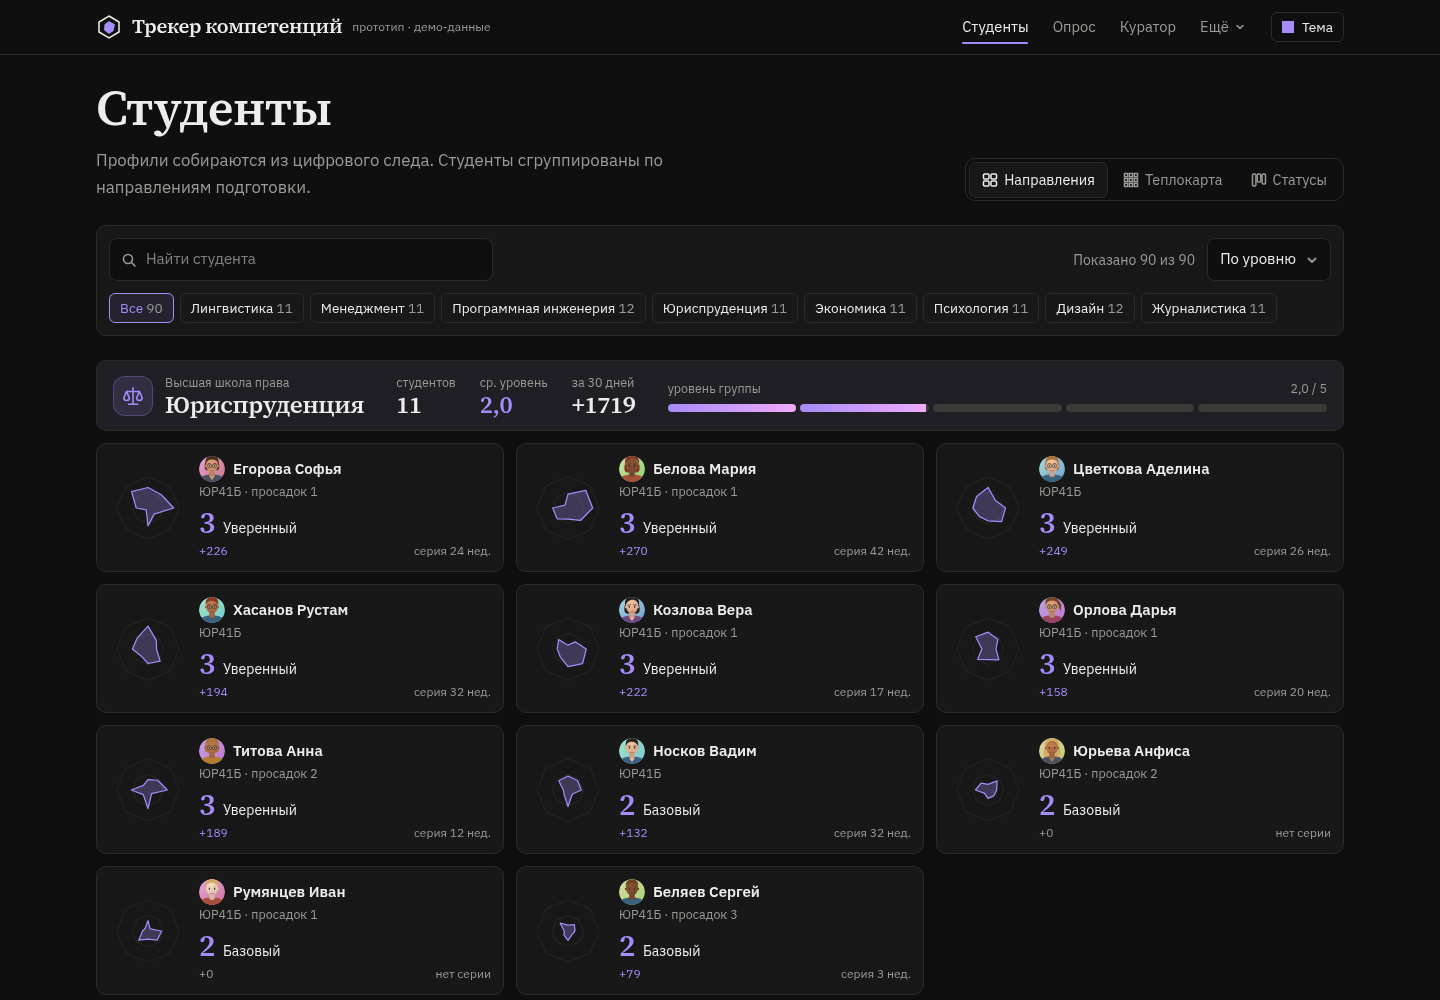
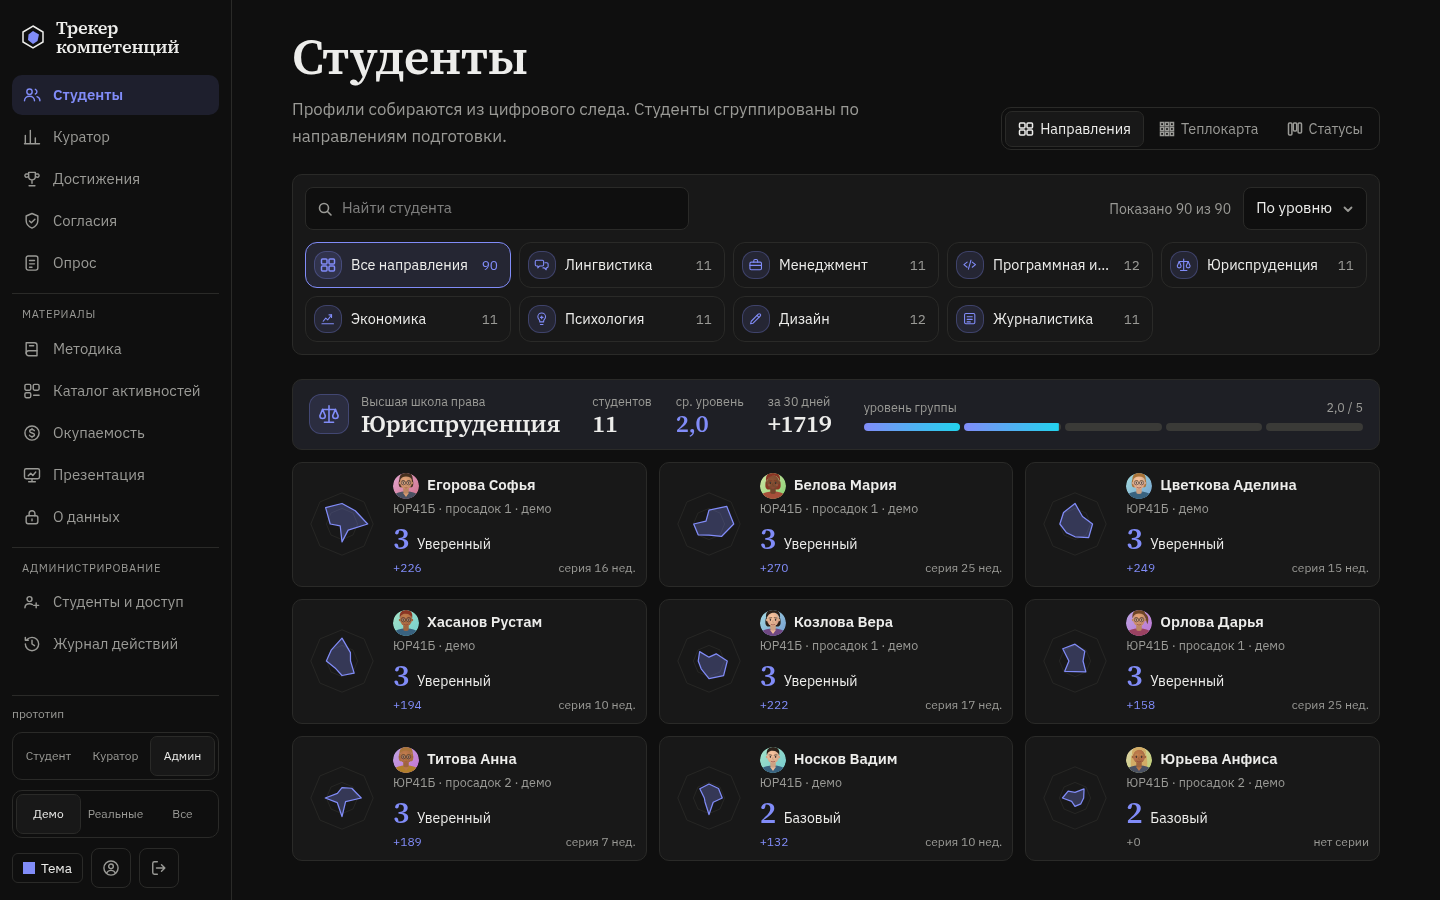
docs: refresh screenshots and demo gif for the current interface

diff --git a/README.md b/README.md
@@ -53,7 +53,7 @@
 
 <table>
   <tr>
-    <td width="50%"><img src="docs/screenshots/01-students-directions.png" alt="Направления"><br><sub><b>Студенты по направлениям.</b> Блоки разной ширины по числу студентов.</sub></td>
+    <td width="50%"><img src="docs/screenshots/01-students-directions.png" alt="Направления"><br><sub><b>Студенты по направлениям.</b> Плитки направлений слева направо и карточки студентов без пустых мест; слева панель разделов.</sub></td>
     <td width="50%"><img src="docs/screenshots/02-students-heatmap.png" alt="Теплокарта"><br><sub><b>Теплокарта.</b> Студент × компетенция, цвет показывает уровень.</sub></td>
   </tr>
   <tr>
